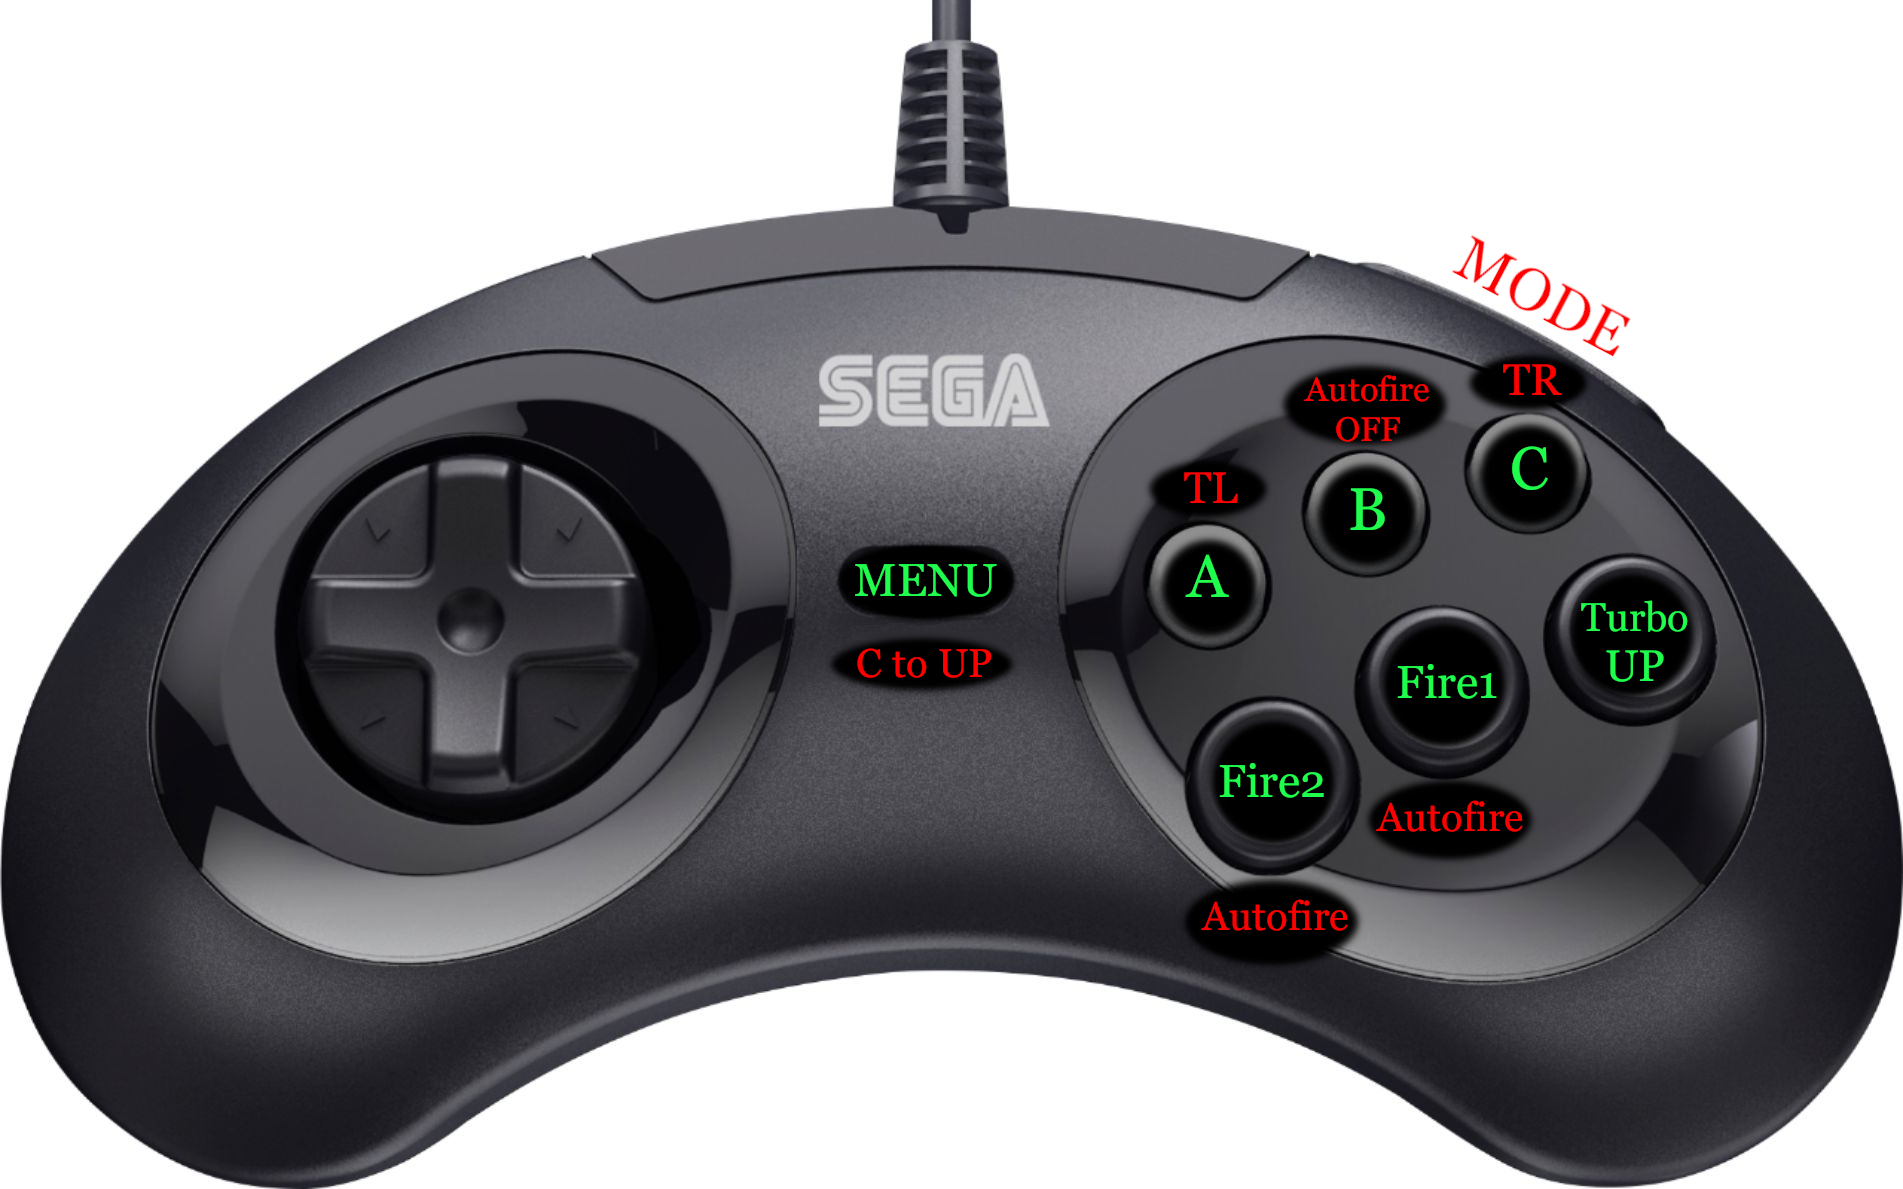
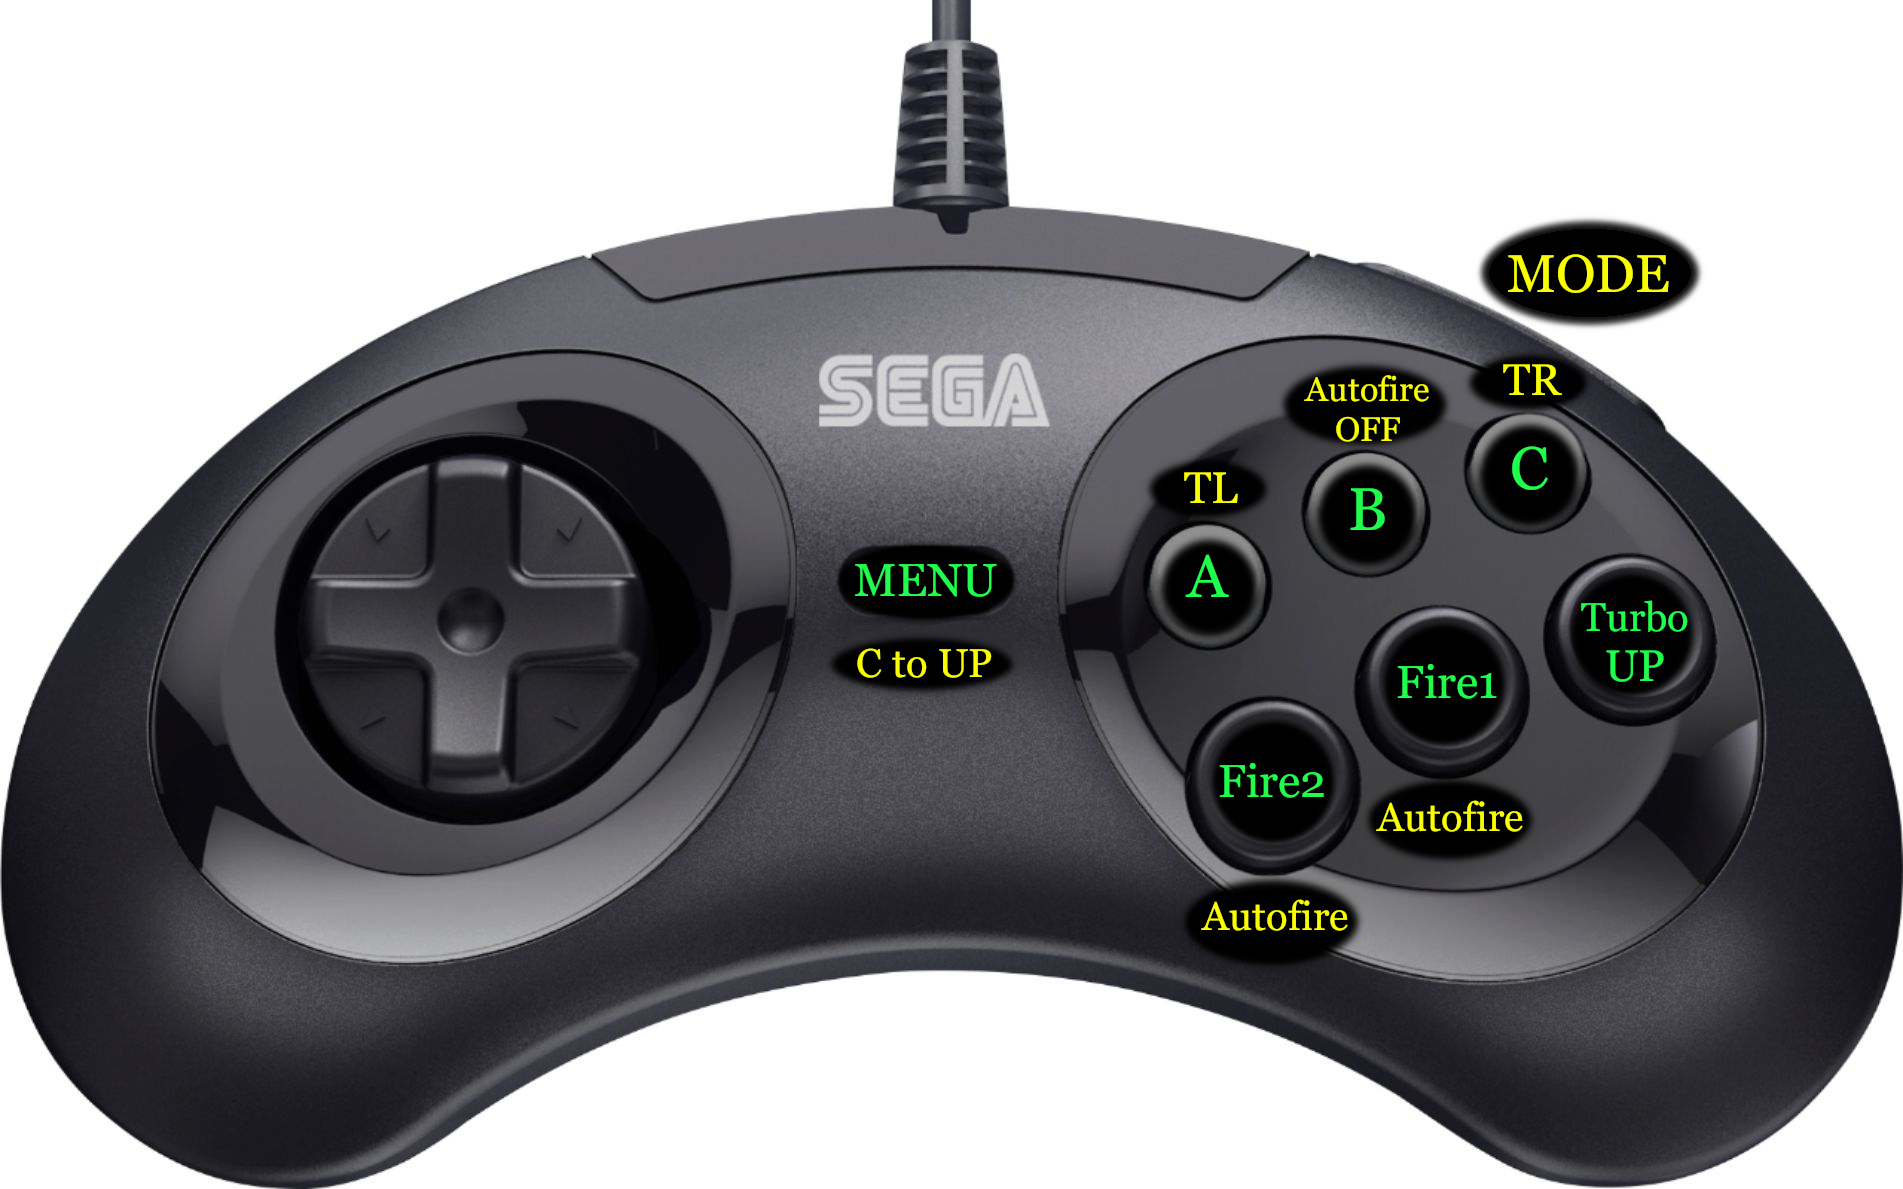
Added README

diff --git a/software/arduino/The64Genesis/README.md b/software/arduino/The64Genesis/README.md
@@ -1,0 +1,45 @@
+# The64Genesis
+
+I picked up a The64 Mini on a whim and a sale, more than likely because someone in the shop had tried it out at some point and come to some conclusions regarding the quality of the thing. The machine itself is super-cute with its less than functional keyboard and breadbox-y shape, but the reviews really did not go far enough in explaining exactly how dreadful the controller really is. Commodore 64 games are hard enough, even with a sensible joystick so I needed something else.
+
+I started out with the GenesisMachine firmware I made earlier, then discovered that none of the keys worked since the Mini have some sort of controller whitelist and well-behaved Arduino Pro Micro solutions simply arent't on the list - so I did the next best thing; copy the relevant bits from people who actually know what they are doing. In this case relief was found in the form of an [article](https://www.tsb.space/projects/c64-mini-arcade2usb-converter/) written by TSB, it links further to his [github](https://github.com/iamtsb/arcade2usb-converter)-repository.
+
+# Controller layout
+The resulting adapter have buttons laid out according to the illustration below, the yellow buttons are accessed by holding down the MODE-button that should be available on regular 6-button controllers. When activating any of the functions, be sure to hold down the MODE button as it detects a press by the release of a button - trying to push both at the same time will probably not perform as expected. Autofire can be enabled and disabled for the two fire buttons individually, a quick function by holding MODE and pushing B can be used to quickly disable both of them at the time (so that you don't have to remember or guess at which ones are currently active).
+
+![Controller layout](https://github.com/tebl/C64-Joystick-Adapter/raw/main/software/arduino/The64Genesis/controller_layout.png)
+
+Playing Commodore 64 games on a gamepad isn't always easy though, especially the precision needed in a lot of platformers and a few racing games will be harder to do perform on a gamepad. For this reason, most of the Mega Drive/Genesis adapters for the real Commodore 64 comes with the ability to use the C button instead of the UP button on the gamepad. Holding MODE and pushing MENU, alternatively pushing MODE on the C64 Joystick Adapter, enables this mode of operation. Note that this replaces the turbo functionality, D-pad UP will be deactivated to avoid accidental presses.
+
+# Buiding The64Genesis
+The instructions for building has been provided in the main project, for the most part this includes installing the controller ports and soldering the jumpers for Sega pinouts. The following sections mainly deal with installing the firmware on a suitable Arduino Pro Micro clone.
+
+## Firmware installation
+The firmware is supplied in the form of an Arduino-sketch, you'll find it under The64Genesis subfolder. The following subsections goes through setting up additional libraries needed, changing the Arduino board identifier needed and how to change any settings (should you want to do so).
+
+### Installing libraries
+Given that we need Arduino IDE to compile and upload the firmware, more on this later, we'll need to install an extra library. Thankfully I'm lazy when it comes to adopting new libraries, so there's only one that needs to be installed - [ArduinoJostickLibrary](https://github.com/MHeironimus/ArduinoJoystickLibrary). You can follow the documentation on the page for the exact details, but in short it is: download [library](https://github.com/MHeironimus/ArduinoJoystickLibrary/archive/master.zip) in zip-format, install it from the Arduino IDE  by going to *Tools --> Include library --> Add .ZIP Library*.
+
+### Changing Arduino board identifier
+As the already mentioned article describess, the solution works by changing the HID identifier for the Arduino Pro Micro so that it matches up to a different controller that is already in the mentioned whitelist. This is done by adding the contents of the supplied boards.txt file into the one used by the Arduino software, on my system the complete path to this file is *C:\Program Files (x86)\Arduino\hardware\arduino\avr\boards.txt* - you'll probably have to edit as an administrator. While the code was developed using PlatformIO, you'll need to compile and upload the code using Arduino IDE in order to make this work (select *C64 Joystick Adapter* from the list of boards instead of Arduino Leonardo/Arduino Pro Micro).
+
+Open up the *The64Genesis.ino* sketch found in the folder with the same name, if all things are going according to plan - you'll see a new option in the list of boards (as shown below). Compile and upload as normal.
+
+![Board setup](https://github.com/tebl/C64-Joystick-Adapter/raw/main/software/arduino/The64Genesis/arduino_settings.png)
+
+### Settings
+The Arduino sketch have some configurable options, you'll need to edit the file named **settings.h**. Have a read through the comments to see if there is anything you want to customize to your liking, lines without a value attached to them are disabled by commenting the line.
+
+Given the example below, you would enable the autofire functionality by removing the two slashes (//) in front of *"#define ENABLE_AUTO_FIRE"*. The other values you just need to change the values, in this particular case - a lower value means a faster autofire or turbo fire (referred to as *rapid fire* here) response. Note that the software on the other end will have a hard time to follow if this is set too low, but feel free to experiment until you find what feels good for you and the games you play.
+```
+//#define ENABLE_AUTO_FIRE
+#define AUTO_FIRE_PERIOD_ON 80
+#define AUTO_FIRE_PERIOD_OFF 80
+#define RAPID_FIRE_PERIOD_ON 40
+#define RAPID_FIRE_PERIOD_OFF 40
+```
+
+**NB!** Note that you'll have to recompile and upload the new version of the firmware every time you make changes to it.
+
+# Design caveats
+I don't know of a way that the mini can support more than one controller this way, so with this firmware only Port 2 will be active. Comment out the SWAP_PORTS line in *settings.h* if you want to plug your Sega Mega Drive controller into port 1 instead. The firmware will function as normal with only a 3-button Sega Master System controller, but in order to navigate all the features of The64 Mini you'll want a 6-button controller.
